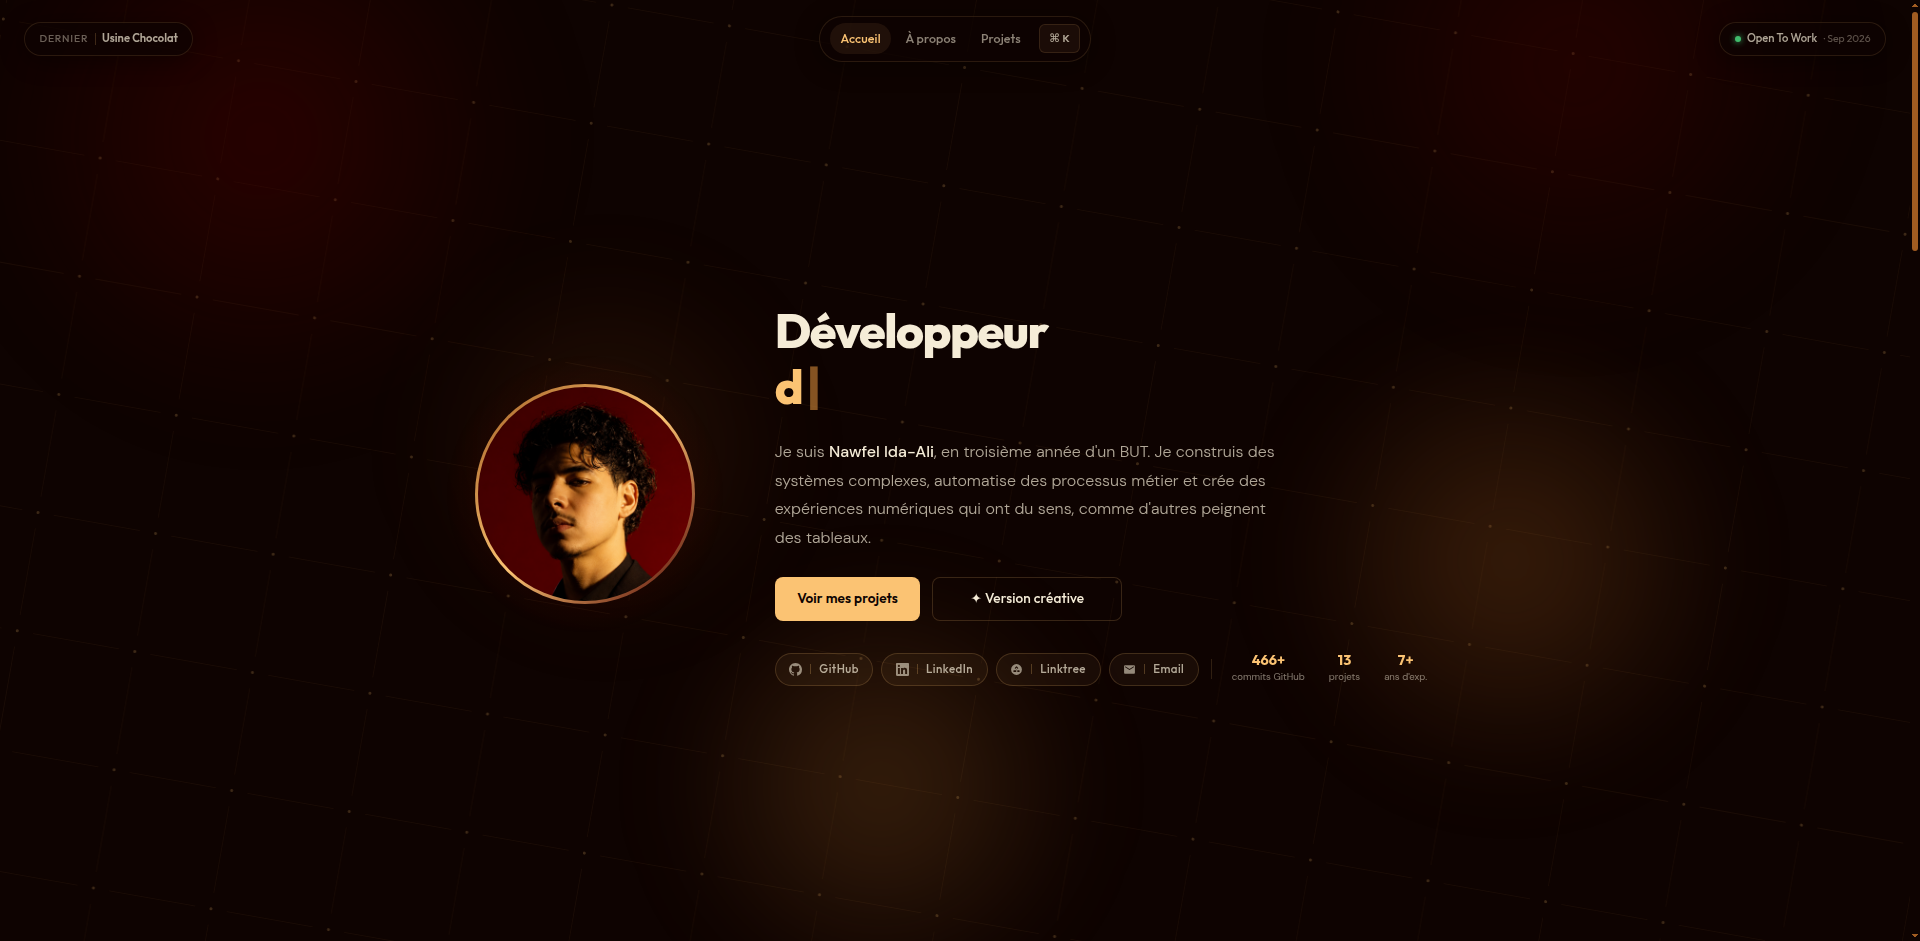
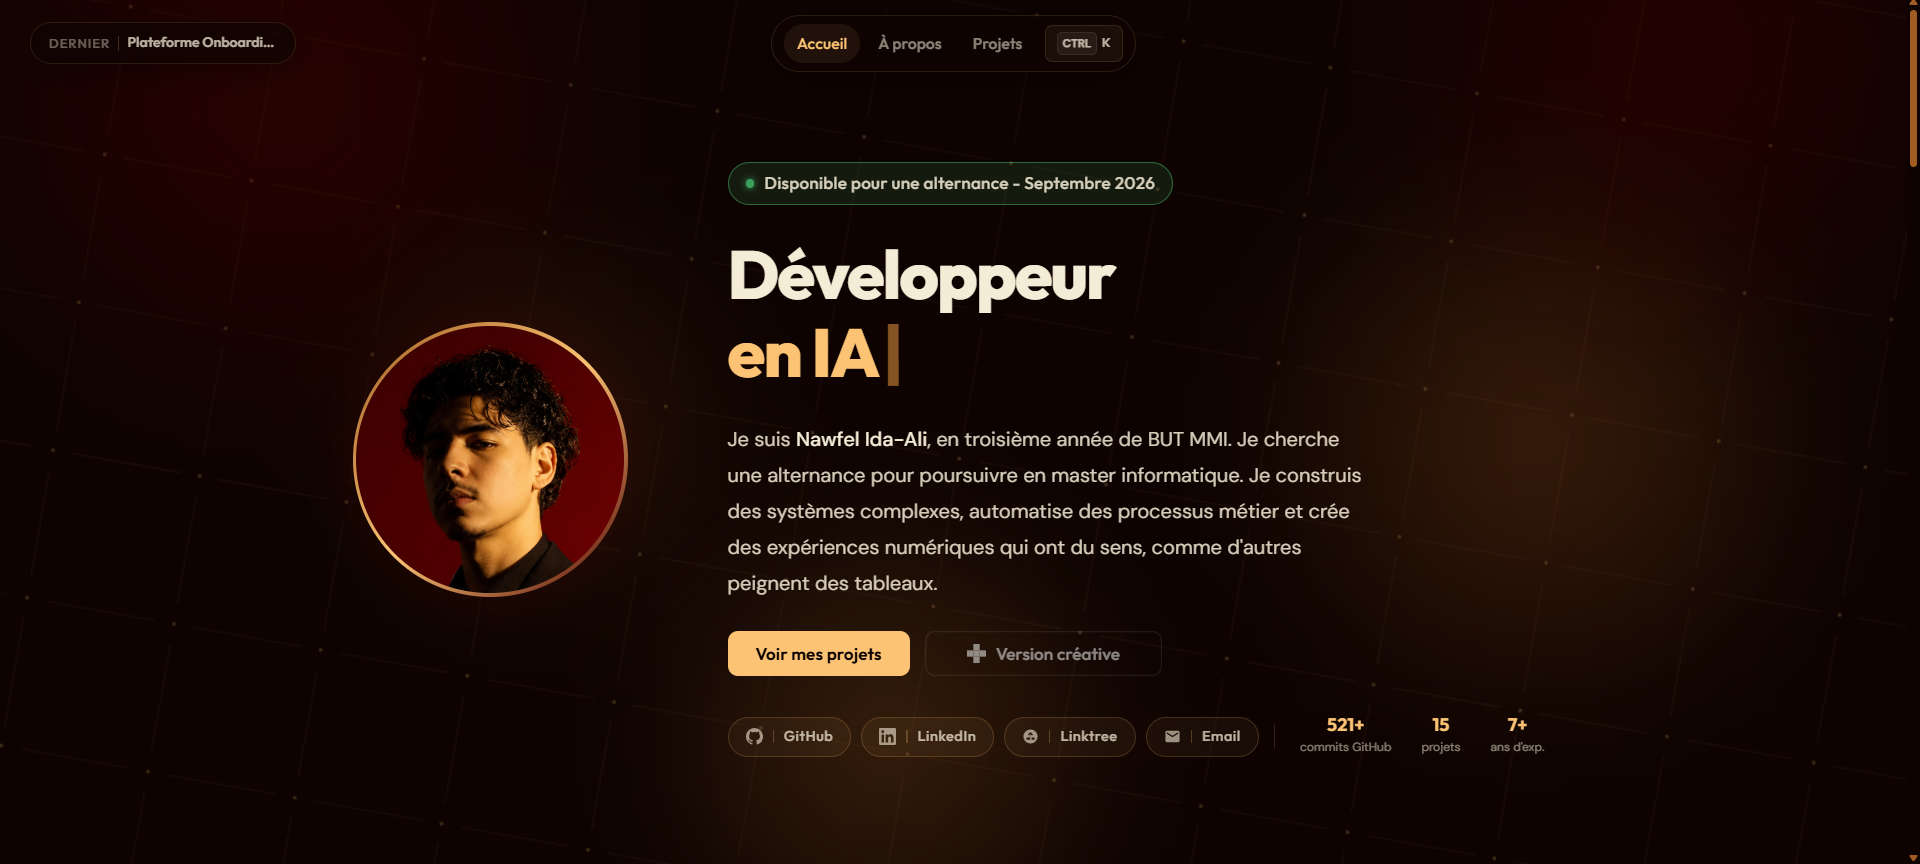
chore(seo): add social preview metadata and optimize external resource loading

diff --git a/index.html b/index.html
@@ -1,34 +1,60 @@
-<!DOCTYPE html>
+<!doctype html>
 <html lang="fr">
 
 <head>
+  <!-- Core metadata -->
   <meta charset="UTF-8" />
   <meta name="viewport" content="width=device-width, initial-scale=1.0" />
-  <meta name="description"
-    content="Nawfel Ida-Ali — Développeur Full-Stack, Automatisation & IA. Master Informatique, Strasbourg." />
-  <meta property="og:title" content="Nawfel Ida-Ali — Portfolio" />
-  <meta property="og:description" content="Développeur Full-Stack, Automatisation & IA." />
-  <meta property="og:image" content="/assets/og-image.png" />
+
   <title>nawfel.dev</title>
+  <meta name="description"
+    content="Nawfel Ida-Ali - Développeur Full-Stack, Automatisation & IA. Portfolio personnel basé à Strasbourg." />
+
+  <!-- Social preview metadata -->
+  <meta property="og:type" content="website" />
+  <meta property="og:title" content="Nawfel Ida-Ali (Portfolio)" />
+  <meta property="og:description" content="Développeur Full-Stack, Automatisation & IA." />
+  <meta property="og:url" content="https://nawfel-dev.vercel.app/" />
+  <meta property="og:image" content="https://nawfel-dev.vercel.app/assets/site/homepage.webp" />
+
+  <meta name="twitter:card" content="summary_large_image" />
+  <meta name="twitter:title" content="Nawfel Ida-Ali (Portfolio)" />
+  <meta name="twitter:description" content="Développeur Full-Stack, Automatisation & IA." />
+  <meta name="twitter:image" content="https://nawfel-dev.vercel.app/assets/site/homepage.webp" />
+
+  <!-- Icons -->
+  <link rel="icon" type="image/x-icon" href="/favico.ico" />
+
+  <!-- Performance hints for external resources -->
   <link rel="preconnect" href="https://fonts.googleapis.com" />
   <link rel="preconnect" href="https://fonts.gstatic.com" crossorigin />
-  <link rel="icon" type="image/png" href="/favico.ico" />
   <link rel="preconnect" href="https://api.github.com" />
+  <link rel="preconnect" href="https://cdn.jsdelivr.net" />
+
+  <!-- Fonts -->
+  <link
+    href="https://fonts.googleapis.com/css2?family=Outfit:wght@300;400;500;600;700;800&family=DM+Sans:ital,wght@0,300;0,400;0,500;1,300&display=swap"
+    rel="stylesheet" />
+
+  <!-- Devicon stylesheet loaded without blocking the first render -->
   <link rel="stylesheet" href="https://cdn.jsdelivr.net/gh/devicons/devicon@latest/devicon.min.css" media="print"
     onload="this.media='all'" />
   <noscript>
     <link rel="stylesheet" href="https://cdn.jsdelivr.net/gh/devicons/devicon@latest/devicon.min.css" />
   </noscript>
-  <link
-    href="https://fonts.googleapis.com/css2?family=Outfit:wght@300;400;500;600;700;800&family=DM+Sans:ital,wght@0,300;0,400;0,500;1,300&display=swap"
-    rel="stylesheet" />
-  <script src="https://cdn.jsdelivr.net/npm/@webcomponents/webcomponentsjs@2.0.0/webcomponents-loader.js"></script>
-  <script src="https://www.unpkg.com/lit@2.0.0-rc.2/polyfill-support.js"></script>
+
+  <!-- n8n workflow viewer dependencies -->
+  <script defer
+    src="https://cdn.jsdelivr.net/npm/@webcomponents/webcomponentsjs@2.0.0/webcomponents-loader.js"></script>
+  <script defer src="https://www.unpkg.com/lit@2.0.0-rc.2/polyfill-support.js"></script>
   <script type="module" src="https://cdn.jsdelivr.net/npm/@n8n_io/n8n-demo-component/n8n-demo.bundled.js"></script>
 </head>
 
 <body>
+  <!-- React application mount point -->
   <div id="root"></div>
+
+  <!-- Vite entry point -->
   <script type="module" src="/src/main.jsx"></script>
 </body>
 
